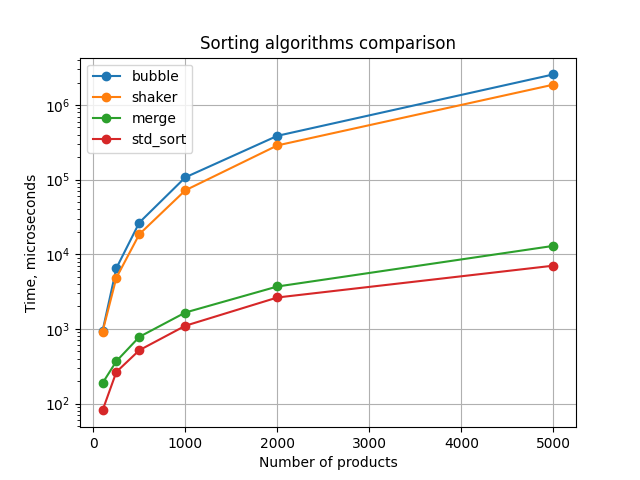
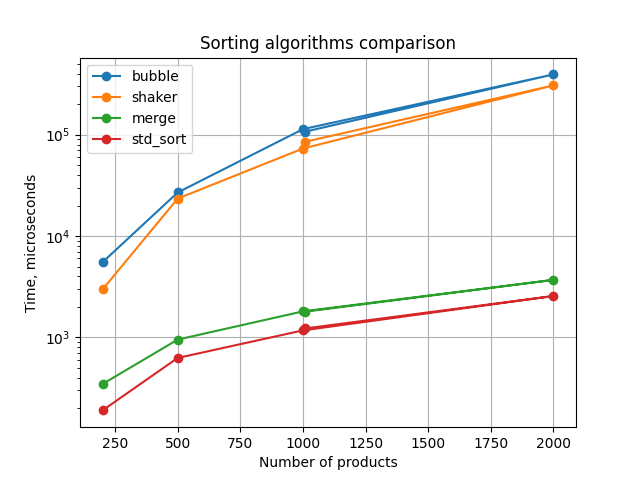
Много сортировок на разные размеры генерация generateProductsToFile и ещё пнг через matplotlib.pyplot

diff --git a/src/main.cpp b/src/main.cpp
@@ -174,7 +174,8 @@ int main() {
    // generateProductsToFile("data/input100.txt", 100);
    // std::vector<Product> products = readProductsFromFile("data/input100.txt");
 
-   std::vector<int> sizes = {100, 250, 500, 1000, 2000, 5000};
+   // std::vector<int> sizes = {2000, 5000, 10000, 20000, 101000};
+   std::vector<int> sizes = {200, 500, 1000, 2000, 1010};
 
    for (std::size_t i = 0; i < sizes.size(); i++){
     int size = sizes[i]; 
